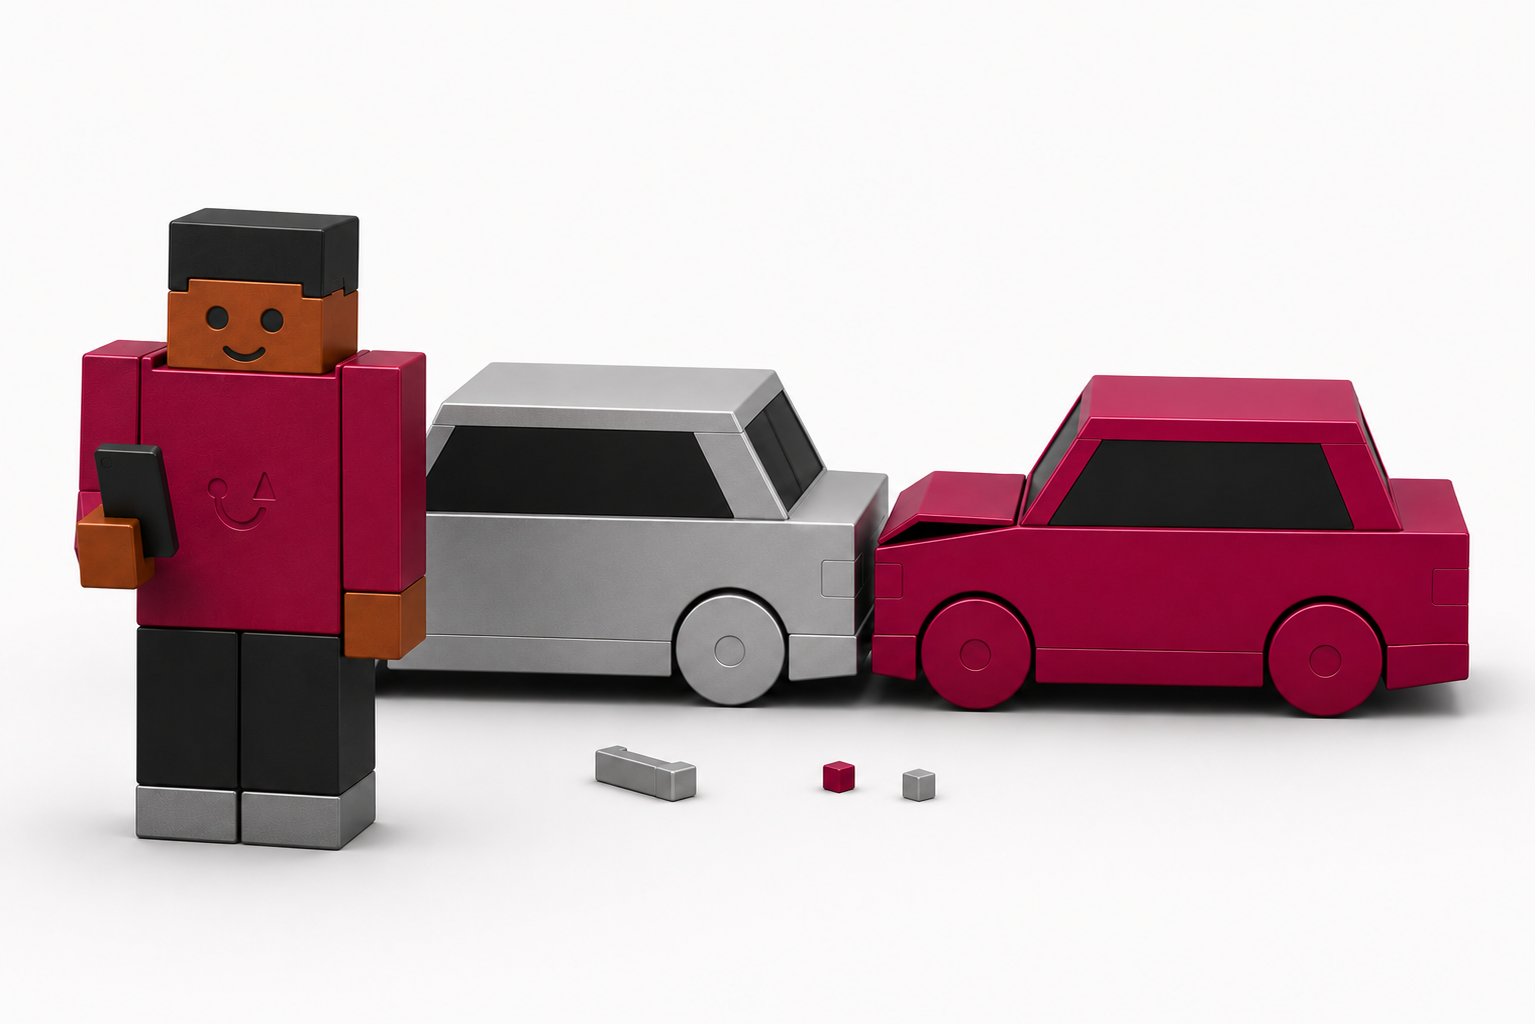
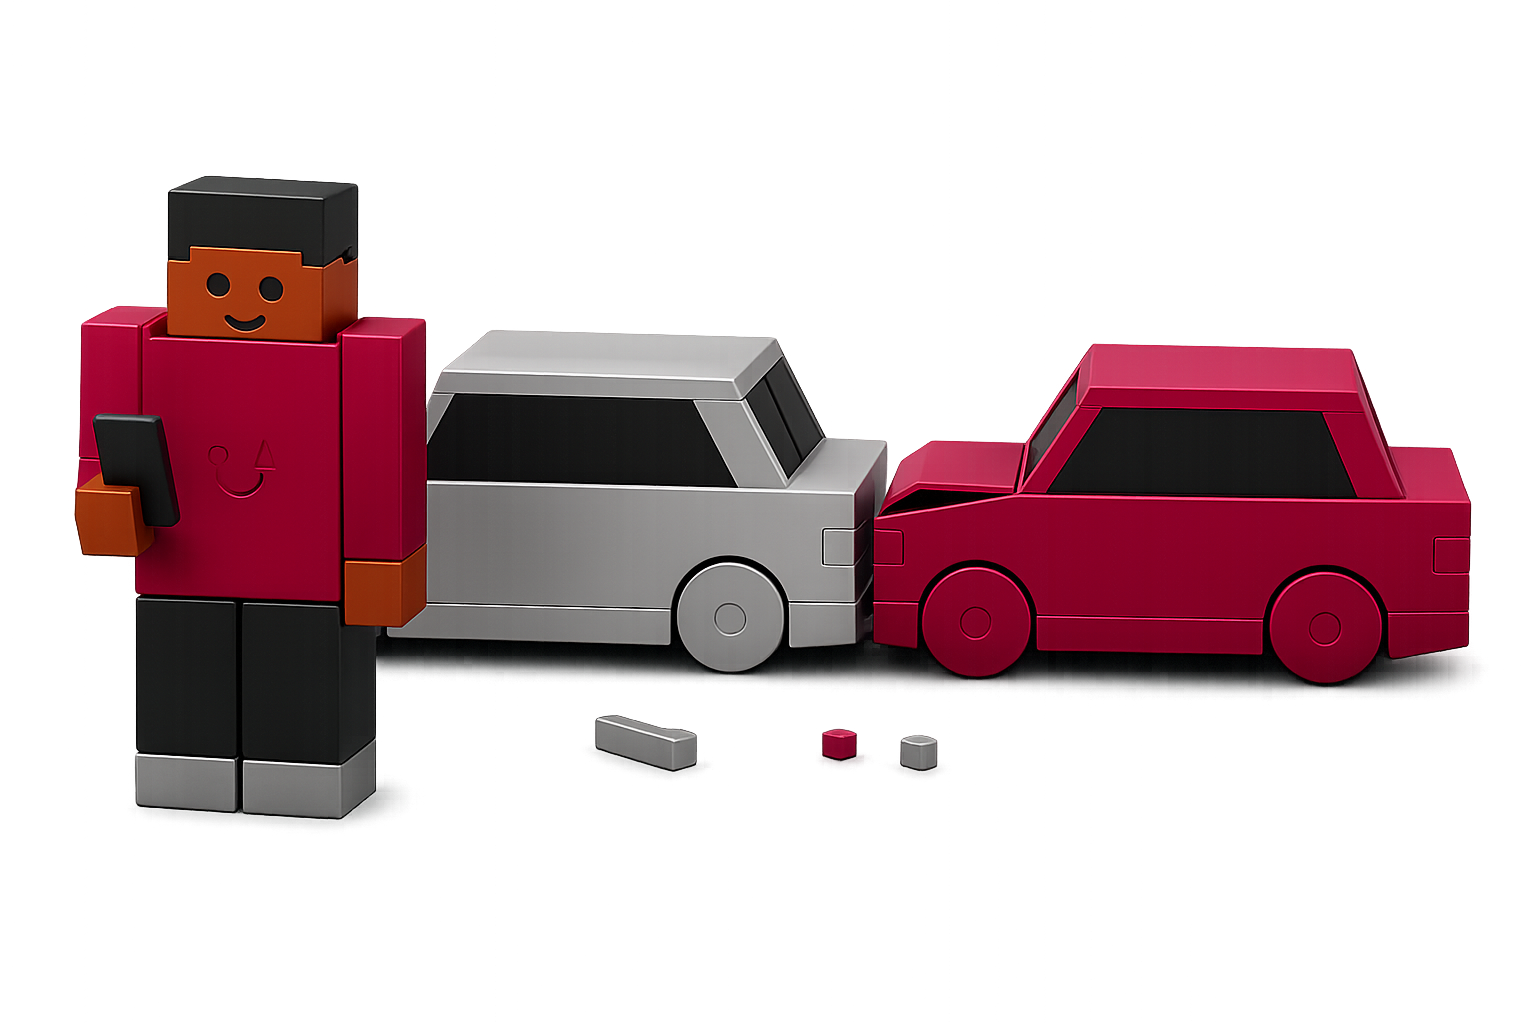
Add homepage index variants

Changed region(s): [[0.0306, 0.1562, 1.0, 0.7812], [0.0306, 0.7188, 0.3062, 0.875]]

diff --git a/styles.css b/styles.css
@@ -1,4 +1,4 @@
-@import url("https://fonts.googleapis.com/css2?family=Nunito+Sans:wght@400;500&display=swap");
+@import url("https://fonts.googleapis.com/css2?family=Nunito+Sans:wght@400;500;900&display=swap");
 
 :root {
   --ink: #111111;
@@ -57,7 +57,6 @@ button, input, select, textarea { font: inherit; }
   left: 0;
   right: 0;
   z-index: 20;
-  border-bottom: 1px solid var(--line);
   background: var(--paper);
   box-shadow: 0 0 0 rgba(17, 17, 17, 0);
   transition: box-shadow 300ms var(--ease-in-out);
@@ -152,11 +151,11 @@ button, input, select, textarea { font: inherit; }
   color: var(--ink);
 }
 .phone-link span {
-  color: var(--accent);
-  font-weight: 900;
+  color: #9a9a9f;
+  font-weight: 400;
 }
 .phone-link strong {
-  color: var(--ink);
+  color: var(--accent);
   font-weight: 900;
 }
 .language-button {
@@ -213,6 +212,15 @@ button, input, select, textarea { font: inherit; }
   border-radius: 10px;
   background: var(--paper);
   color: var(--ink);
+  font-size: 0;
+}
+.menu-button::before {
+  content: "";
+  width: 18px;
+  height: 2px;
+  border-radius: 999px;
+  background: currentColor;
+  box-shadow: 0 -6px 0 currentColor, 0 6px 0 currentColor;
 }
 
 .button {
@@ -246,6 +254,9 @@ main > section {
   margin: 0 auto;
   padding: 72px 20px;
 }
+#how-it-works {
+  margin-top: 100px;
+}
 .hero {
   min-height: calc(100svh - 65px - env(safe-area-inset-top));
   display: grid;
@@ -268,20 +279,97 @@ main > section {
   padding-right: 20px;
 }
 .hero-image-left {
-  align-content: center;
-  gap: 28px;
+  min-height: 880px;
+  align-content: start;
+  justify-items: start;
+  gap: 48px;
+  text-align: left;
 }
 .hero-art {
   order: -1;
   min-width: 0;
+  height: 520px;
+  display: flex;
+  align-items: center;
+  justify-content: center;
 }
 .hero-art img {
   display: block;
   width: 100%;
-  height: auto;
+  height: 100%;
+  object-fit: contain;
 }
 .hero-copy {
   min-width: 0;
+  display: grid;
+  justify-items: start;
+}
+.hero-kicker {
+  max-width: 38ch;
+  margin: 24px 0 72px;
+  color: var(--muted);
+  font-size: 48px;
+  font-weight: 400;
+  line-height: 1.05;
+}
+.hero-copy h1 {
+  font-size: 56px;
+  font-weight: 700;
+  line-height: .86;
+  max-width: none;
+  white-space: nowrap;
+}
+.hero-copy .lead {
+  color: #6e6e73;
+  font-size: 24px;
+}
+.hero-copy .hero-coordinate {
+  color: var(--ink);
+  font-size: 80px;
+  font-weight: 800;
+  line-height: 1.32;
+}
+.hero-copy .hero-coordinate span {
+  display: block;
+}
+.hero-copy .hero-coordinate .accent-word {
+  color: var(--accent);
+}
+.hero-copy .hero-story {
+  color: #555555;
+  font-size: 24px;
+  font-weight: 500;
+  margin-top: 24px;
+}
+.hero-copy .hero-story span {
+  display: block;
+}
+.hero-copy .cta-row {
+  margin-top: 40px;
+}
+.hero-copy .cta-row .button {
+  width: 240px;
+  min-height: 56px;
+  font-size: 18px;
+  font-weight: 600;
+}
+.hero-v2-row {
+  gap: clamp(36px, 6vw, 84px);
+}
+.hero-v2-row .hero-art {
+  width: 100%;
+}
+.hero-v2-row .hero-copy {
+  max-width: 640px;
+}
+.hero-v3-row {
+  gap: clamp(36px, 6vw, 84px);
+}
+.hero-v3-row .hero-art {
+  width: 100%;
+}
+.hero-v3-row .hero-copy {
+  max-width: 640px;
 }
 .eyebrow {
   margin: 0 0 12px;
@@ -706,15 +794,46 @@ textarea { min-height: 104px; resize: vertical; }
     padding-right: max(24px, calc((100vw - var(--max)) / 2 + 24px));
   }
   .hero-image-left {
-    grid-template-columns: minmax(0, 6.5fr) minmax(360px, 5.5fr);
-    gap: clamp(36px, 5vw, 72px);
+    grid-template-columns: minmax(0, 760px);
+    align-content: start;
+    justify-content: start;
+    gap: 48px;
   }
   .hero-image-left .hero-art {
     order: 0;
   }
   .hero-image-left .hero-copy {
-    justify-self: end;
-    max-width: 560px;
+    justify-self: start;
+    max-width: 760px;
+  }
+  .hero-v2-row {
+    grid-template-columns: minmax(0, 6fr) minmax(0, 6fr);
+    align-items: center;
+    align-content: center;
+    gap: clamp(48px, 7vw, 96px);
+  }
+  .hero-v2-row .hero-art {
+    order: 0;
+    height: 520px;
+  }
+  .hero-v2-row .hero-copy {
+    justify-self: start;
+    max-width: 640px;
+  }
+  .hero-v3-row {
+    grid-template-columns: minmax(0, 6fr) minmax(0, 6fr);
+    align-items: center;
+    align-content: center;
+    gap: clamp(48px, 7vw, 96px);
+  }
+  .hero-v3-row .hero-art {
+    order: 2;
+    height: 520px;
+  }
+  .hero-v3-row .hero-copy {
+    order: 1;
+    justify-self: start;
+    max-width: 640px;
   }
   h1 { font-size: clamp(4.8rem, 7.4vw, 7.5rem); max-width: 12ch; }
   h2 { font-size: clamp(3.6rem, 5vw, 5.4rem); }

diff --git a/script.js b/script.js
@@ -30,6 +30,7 @@
 
   function addButtonIcons() {
     document.querySelectorAll(".button").forEach((button) => {
+      if (button.hasAttribute("data-no-icon")) return;
       if (button.dataset.iconified) return;
       button.insertAdjacentHTML("beforeend", icons.arrow);
       button.dataset.iconified = "true";